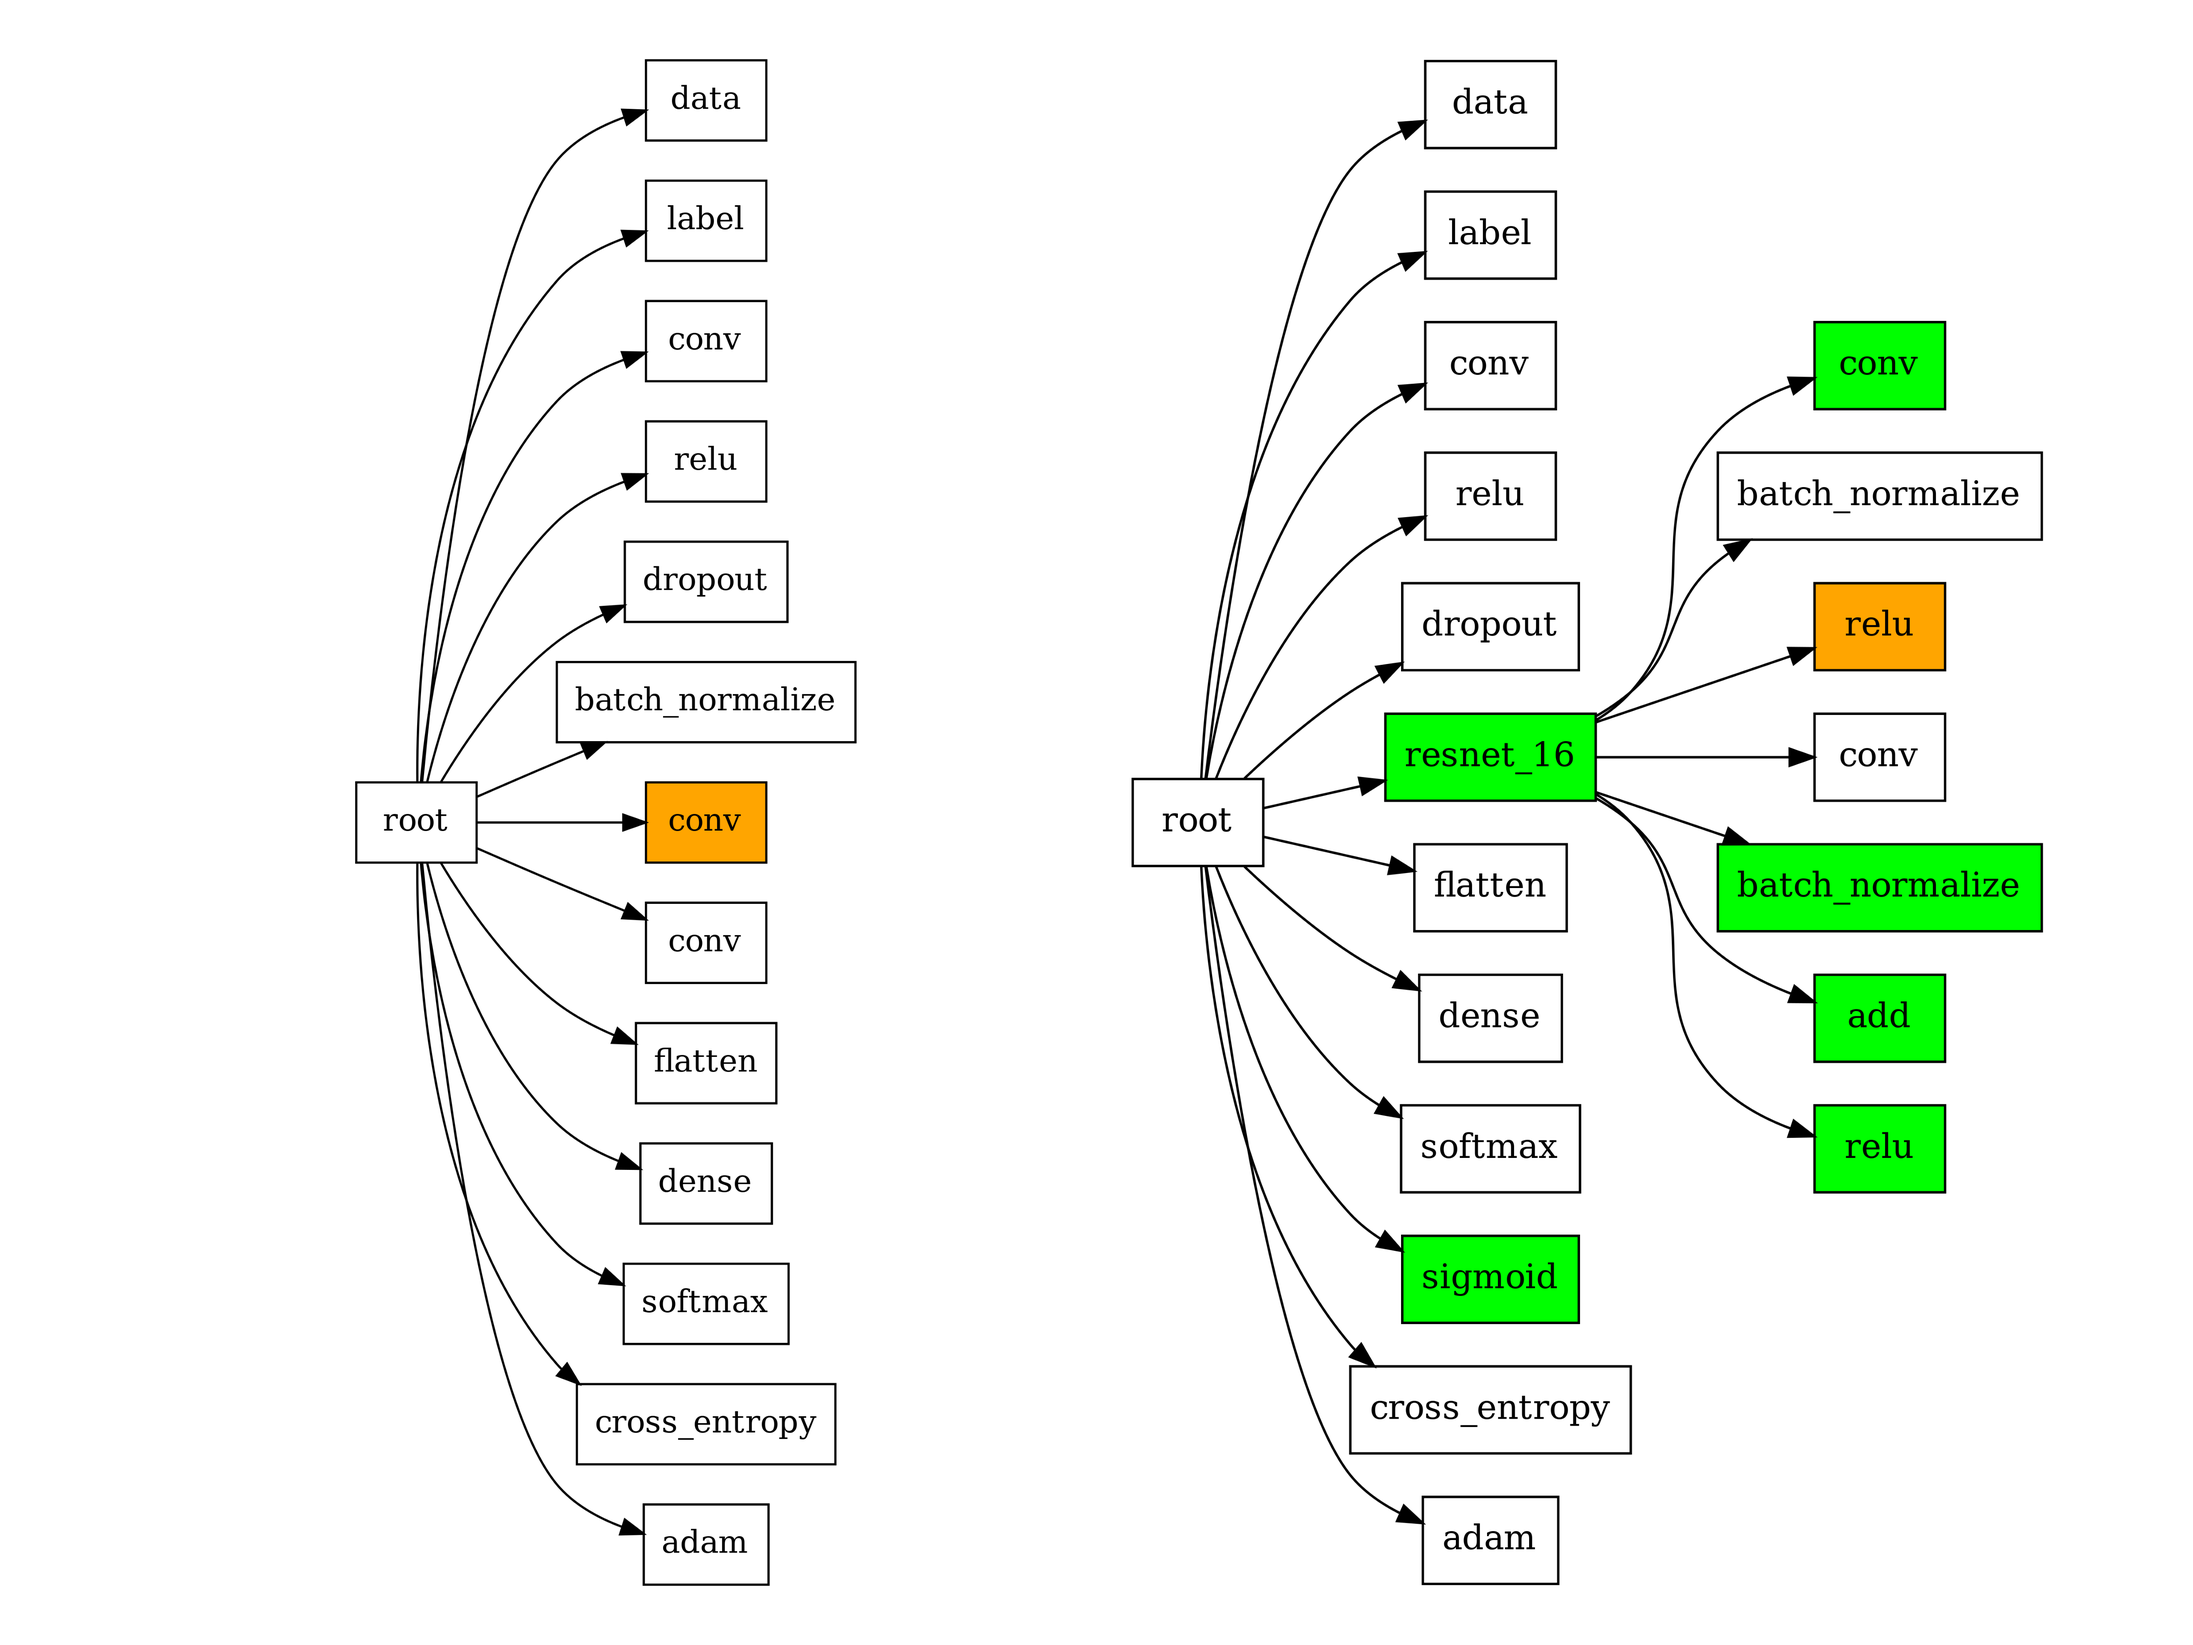
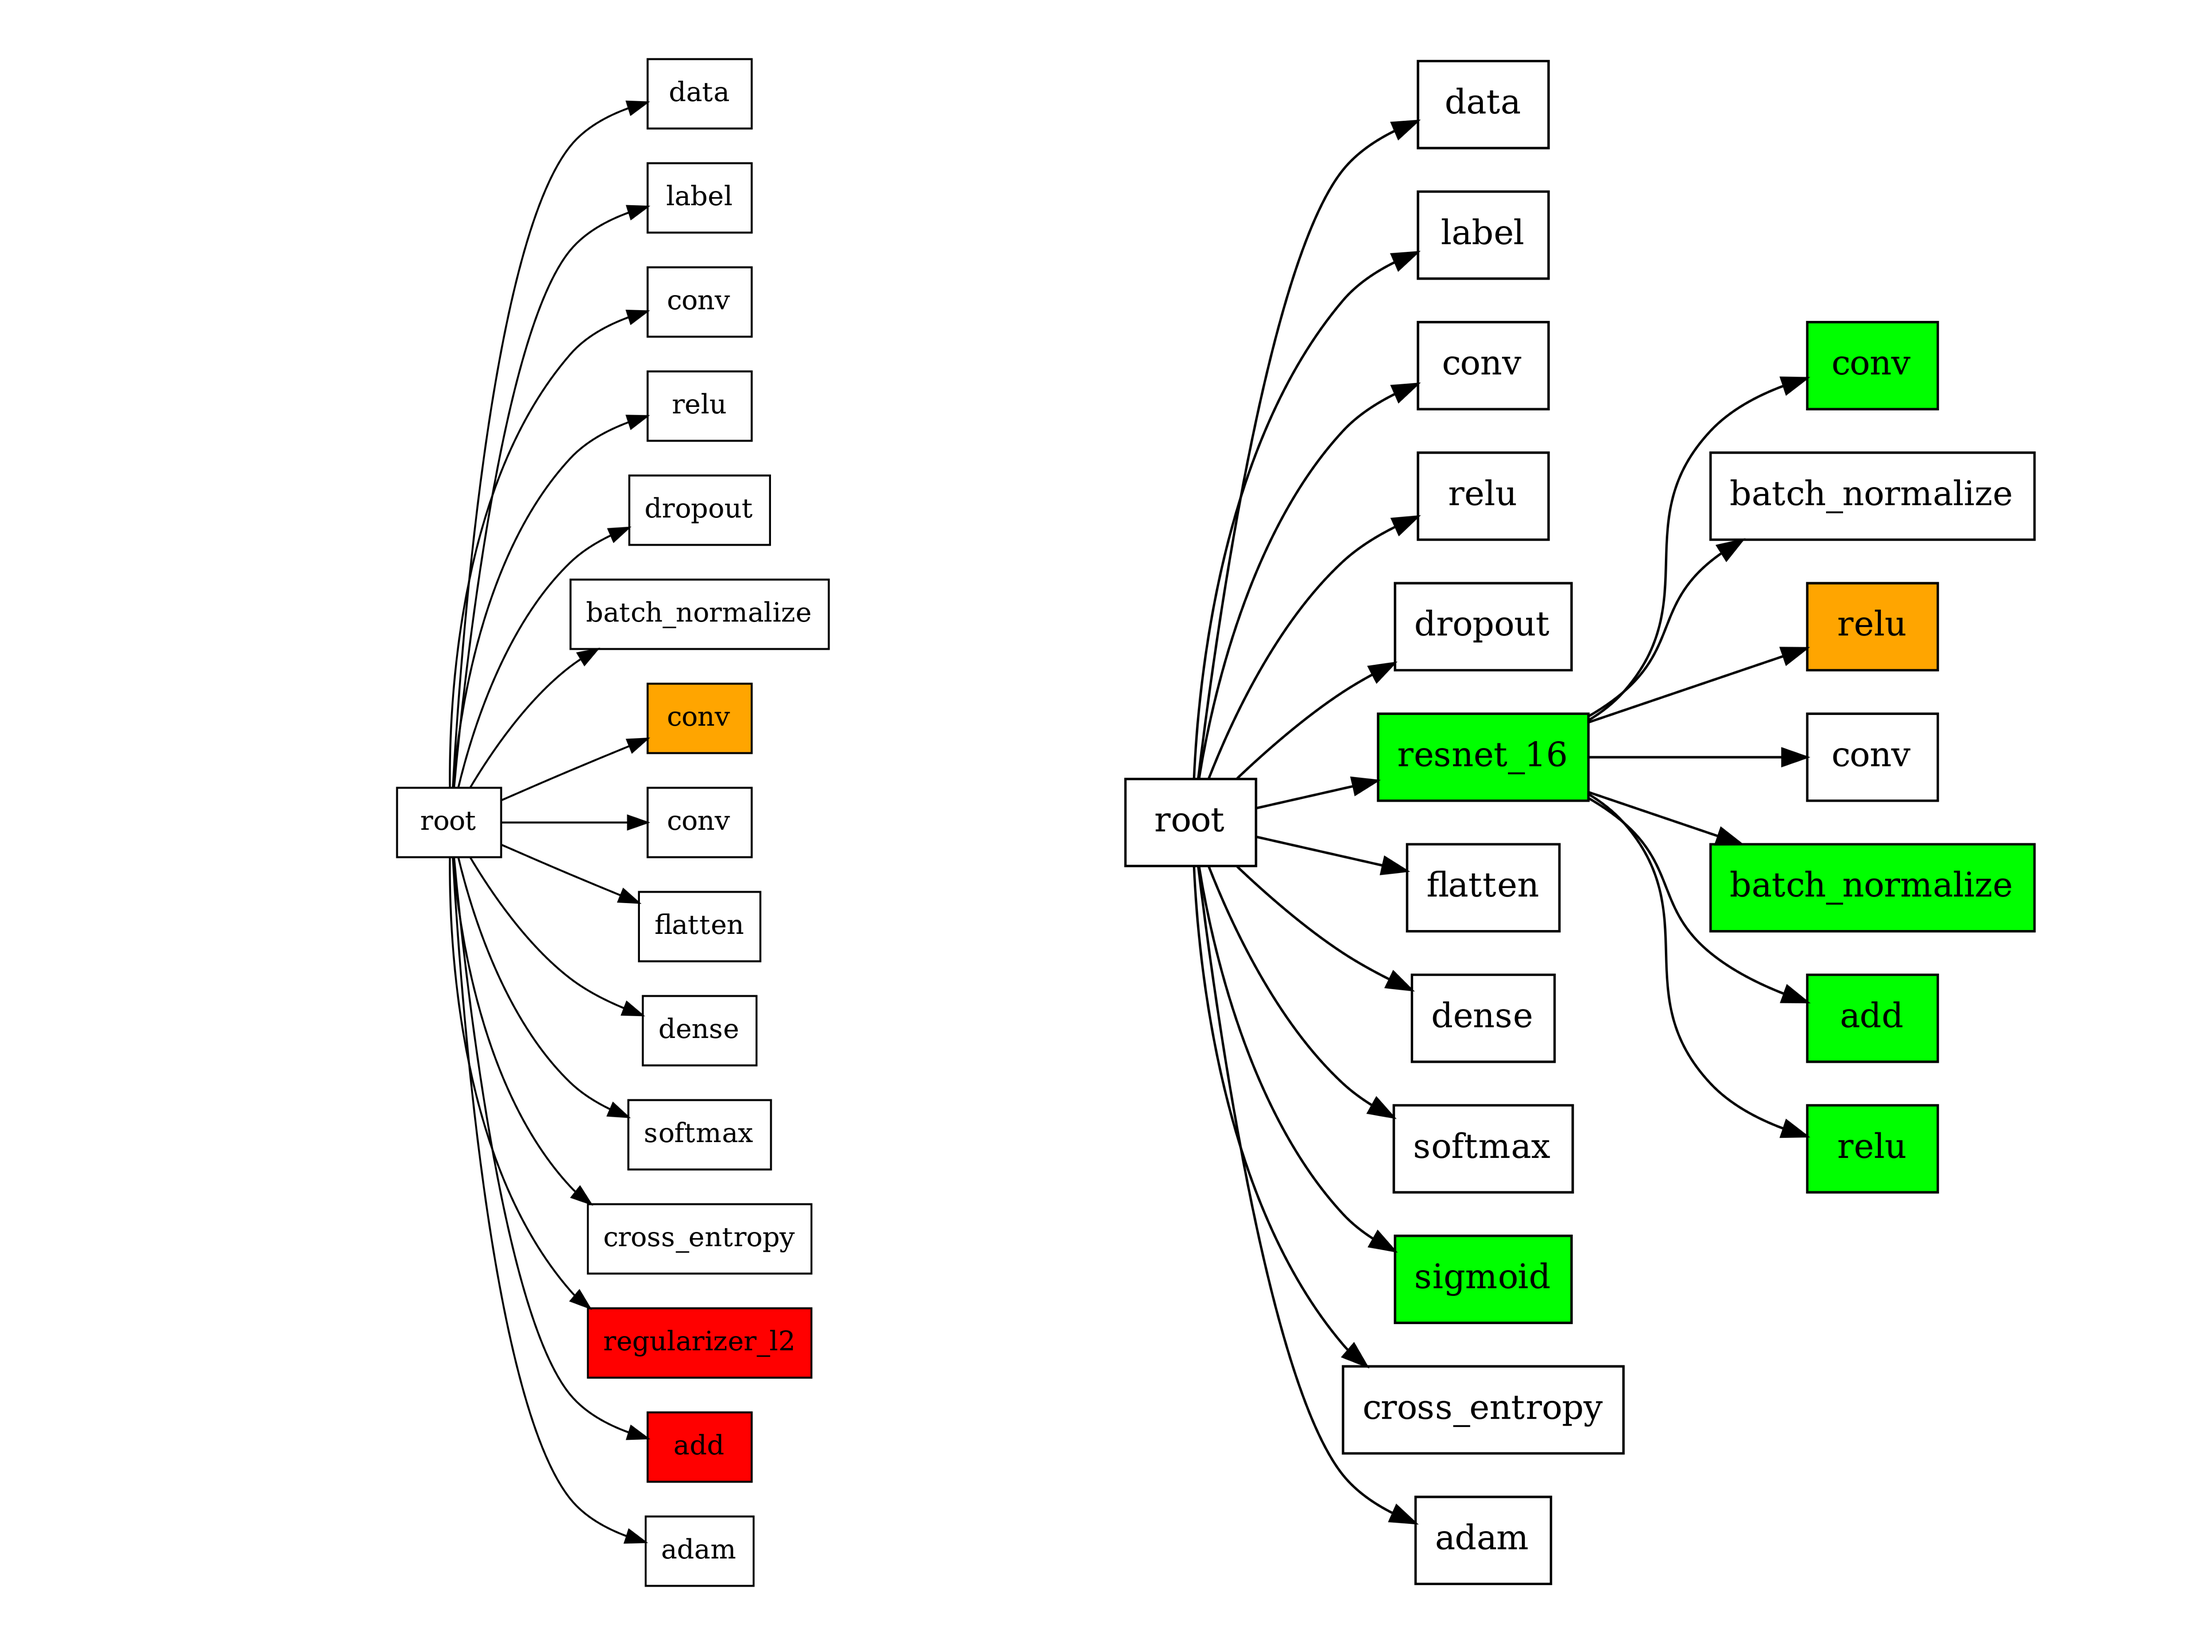
Add back regulariztion

diff --git a/alex/alex/core.py b/alex/alex/core.py
@@ -24,7 +24,9 @@ def get_inputss(component):
 
 # FIXME: use typing
 def get_value_type(label):
-    if label in const.INGREDIENT_TYPES or label in const.INPUT_TYPES:
+    if label in const.INGREDIENT_TYPES \
+       or label in const.INPUT_TYPES \
+       or label in const.REGULARIZERS:
         node_type = "ingredient"
     elif label in const.ALL_RECIPES:
         node_type = "recipe"
@@ -85,24 +87,12 @@ def get_ancestor_param_node(node, tree, field=None):
         return parent_node[field]
 
 
-def get_ancestor_ingredient_node(node, components, tree, field=None):
-    tree = deepcopy(tree)
-    components = deepcopy(components)
-    node = deepcopy(node)
-    if node["name"] in components \
-       or node["name"] == "root" \
-       or node["type"] == "recipe":
-        parent_node = node
-    else:
-        parent = node["parent"]
-        while parent not in components:
-            _name = parent
-            parent = tree[_name]["parent"]
-        parent_node = tree[parent]
+def get_ancestor_ingredient_node(node, tree, field=None):
+    name = node["meta"]["position"]["component"]
     if field is None:
-        return parent_node
+        return tree[name]
     else:
-        return parent_node[field]
+        return tree[name][field]
 
 
 def get_parent(root, tree, field=None):

diff --git a/alex/annotators/code_gen.py b/alex/annotators/code_gen.py
@@ -267,8 +267,6 @@ class Regularizer(param_count.Ingredient):
         super().__init__(*args, **kwargs)
 
     def generate_code(self, node, annotated, engine):
-        if node["type"] != "ingredient":
-            return None
         children = core.get_children(node["name"], annotated)
         args = dict()
         args[const.ALEX_ARG_INPUTS] = {"key": const.ALEX_ARG_INPUTS,
@@ -590,8 +588,6 @@ def nodes(node):
         value = "ingredient"
     elif node["value"] in const.SCHEDULER_BLOCK:
         value = FUNCTION
-
-    # print(value, node["name"], "********************************")
     _nodes = {"ingredient": Ingredient,
               "recipe": Recipe,
               "initializer_fn": Initializer,
@@ -696,7 +692,6 @@ class CodeGen(param_count.ParamCount):
             block = node["block"]
         else:
             _component_ = core.get_ancestor_ingredient_node(node,
-                                                            self.components,
                                                             self.annotated,
                                                             "value")
             _param_ = core.get_ancestor_param_node(node,

diff --git a/alex/alex/dsl_parser.py b/alex/alex/dsl_parser.py
@@ -473,7 +473,8 @@ def connect_to(components, current_component_type, current_component_hyperparams
         if type_match and scope_match:
             connected_component.append("%s/%s" % (component["meta"]["name"],
                                                   types[_component_type]))
-            component["value"]["hyperparams"][types[_component_type]][current_component_type] = current_component_hyperparams
+            # Make regularization part of the hyperparam subtree
+            # component["value"]["hyperparams"][types[_component_type]][current_component_type] = current_component_hyperparams
         delete_key(component["value"]["hyperparams"], "connect_to")
     delete_key(current_component_hyperparams, "connect_to")
     return connected_component

diff --git a/cache/example_generated.py b/cache/example_generated.py
@@ -68,7 +68,9 @@ class Model(torch.nn.Module):
     
     @staticmethod
     def get_loss(trainable_params, inputs):
-        losses = torch.nn.functional.cross_entropy(weight=None, ignore_index=-100, reduction='mean', target=inputs[0], input=inputs[1])
+        cross_0 = torch.nn.functional.cross_entropy(weight=None, ignore_index=-100, reduction='mean', target=inputs[0], input=inputs[1])
+        regularizer = 0.002*sum(list(map(lambda x: torch.norm(input=trainable_params[x]), ['conv_5fo/filters', 'conv_13na/filters', 'conv_15pq/filters', 'dense_19tw/weights'])))
+        losses = torch.add(input=[cross_0, regularizer][0], other=[cross_0, regularizer][1])
         return losses 
     
     @staticmethod

diff --git a/alex/annotators/param_count.py b/alex/annotators/param_count.py
@@ -291,9 +291,7 @@ class ParamCount(Annotator):
         node["input_nodes"] = inputs
         node["input_names"] = input_names
         node["input_shape"] = input_shape
-        node["ancestor"] = core.get_ancestor_ingredient_node(node,
-                                                             self.components,
-                                                             self.tree)
+        node["ancestor"] = core.get_ancestor_ingredient_node(node, self.tree)
         if node["ancestor"]["name"] in self.components:
             node["dtype"] = self.components[node["ancestor"]["name"]]["meta"]["dtype"]
         else:

diff --git a/alex/alex/annotator_interface.py b/alex/alex/annotator_interface.py
@@ -36,10 +36,7 @@ class Annotator(ABC):
         elif name in self.components:
             inputs = self.components[name]["meta"]["inputs"]
         else:
-            parent = core.get_ancestor_ingredient_node(node,
-                                                       self.components,
-                                                       self.tree,
-                                                       "name")
+            parent = core.get_ancestor_ingredient_node(node, tree, "name")
             inputs = self.components[parent]["meta"]["inputs"]
         return inputs
 

diff --git a/alex/alex/const.py b/alex/alex/const.py
@@ -119,7 +119,6 @@ for ingredient in PARAMS:
         ALL_PARAMS[param] = PARAMS[ingredient][param]
         if PARAMS[ingredient][param]["derivative"]:
             ALL_TRAINABLE_PARAMS[param] = PARAMS[ingredient][param]
-
 ALL_PARAMS_LIST = list(ALL_PARAMS.keys())
 ALL_TRAINABLE_PARAMS_LIST = list(ALL_TRAINABLE_PARAMS.keys())
 
